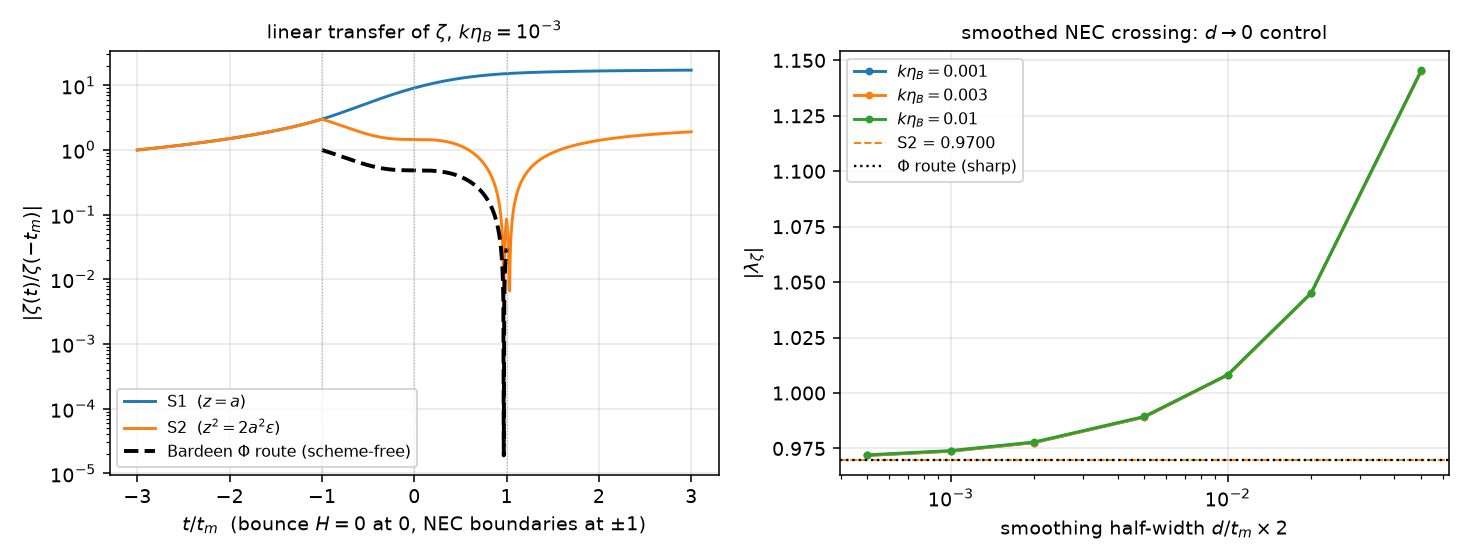
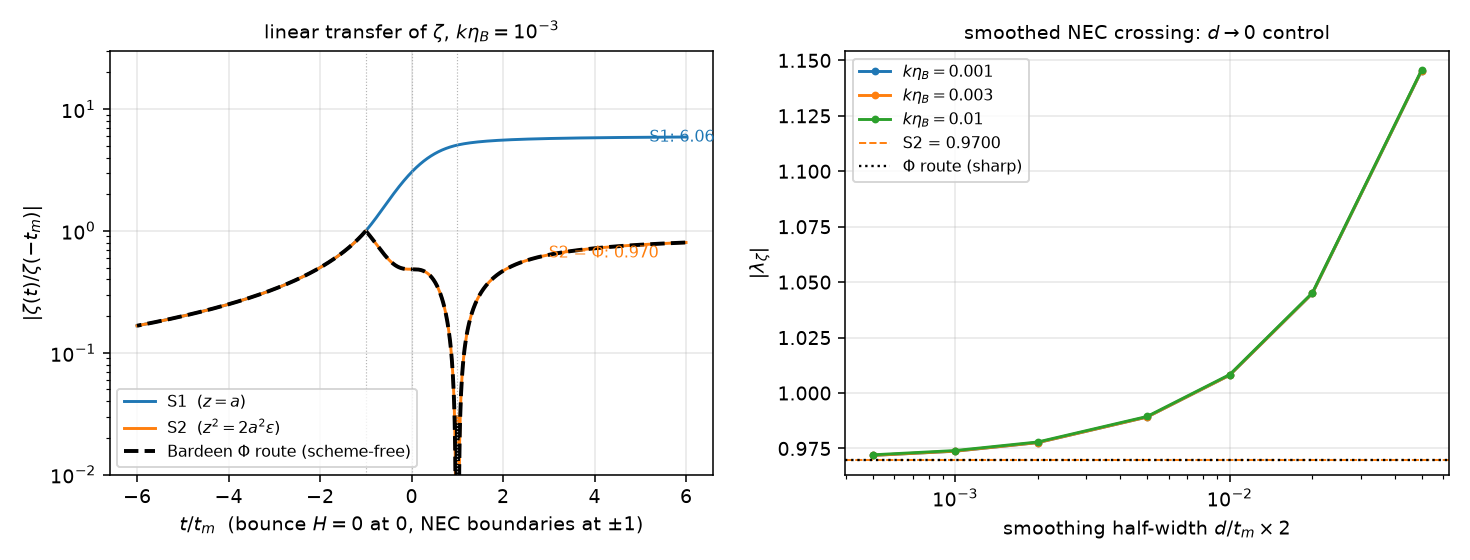
fix(row9): figure -- anchor all three curves at zeta(-t_m) and carry the Phi route through the expansion phase
The first version normalised S1/S2 at t = -6 t_m but the Phi route at -t_m, so
the curves were not comparable and the Phi curve stopped at the exit junction.
Now all three are |zeta(t)/zeta(-t_m)| over the same range: S1, S2 and the
Bardeen route coincide exactly through the whole contraction (eps is constant
there, so z = a is exact -- the symbolic condition made visible), the Phi curve
then lies on top of S2 through the bounce and out to 0.970, and S1 separates at
the NEC boundary and climbs to 6.06. Numbers unchanged.

diff --git a/research/cubic_bounce_transmission/row9_scheme_independence_2026_09_19/row9_numeric.py b/research/cubic_bounce_transmission/row9_scheme_independence_2026_09_19/row9_numeric.py
@@ -305,25 +305,31 @@ def main():
         import matplotlib.pyplot as plt
         fig, ax = plt.subplots(1, 2, figsize=(10.5, 4.0))
         keta = KS[0]; k = keta / ETA_B
-        ts = np.linspace(-3 * TM, 3 * TM, 1200)
-        for nm, sc in (("S1  ($z=a$)", "S1"), ("S2  ($z^2=2a^2\\epsilon$)", "S2")):
+        ts = np.concatenate([np.linspace(-6 * TM, -TM, 300), np.linspace(-TM, TM, 500)[1:-1],
+                             np.linspace(TM, 6 * TM, 300)])
+        for nm, sc, col in (("S1  ($z=a$)", "S1", "C0"), ("S2  ($z^2=2a^2\\epsilon$)", "S2", "C1")):
             bm = BounceModes(Q, k, sc)
-            zz = []
-            for t in ts:
-                zz.append(bm.window(t)[0] if abs(t) <= TM else (bm.early(t)[0] if t < 0 else bm.late(t)[0]))
-            zz = np.abs(np.array(zz, dtype=complex)); ax[0].plot(ts / TM, zz / zz[0], label=nm)
+            zz = np.array([complex(bm.window(t)[0]) if abs(t) <= TM else
+                           complex(bm.early(t)[0] if t < 0 else bm.late(t)[0]) for t in ts])
+            ax[0].plot(ts / TM, np.abs(zz / complex(bm.window(-TM)[0])), col, label=nm)
         Phi0, Xi0, z0 = matter_ic(k, -TM)
-        tw = np.linspace(-TM, TM, 400)
-        r, i = evolve(rhs_sharp, -TM, TM, [Phi0, Xi0], (k,), teval=tw)
-        aa = np.array([Sharp.a(t) for t in tw]); HH = np.array([Sharp.H(t) for t in tw])
-        zb = np.abs(zeta_of(aa, HH, r.y[1] + 1j * i.y[1], r.y[0] + 1j * i.y[0]))
-        ax[0].plot(tw / TM, zb / abs(z0), "k--", lw=2, label="Bardeen $\\Phi$ route (scheme-free)")
+        segs = []
+        for (ta, tb, y0) in [(-TM, -6 * TM, [Phi0, Xi0]), (-TM, 6 * TM, [Phi0, Xi0])]:
+            tt = np.linspace(ta, tb, 700)
+            r, i2 = evolve(rhs_sharp, ta, tb, y0, (k,), teval=tt)
+            aa = np.array([Sharp.a(t) for t in tt]); HH = np.array([Sharp.H(t) for t in tt])
+            Hd = np.where(np.abs(tt) <= TM, UPS, -1.5 * HH ** 2)
+            segs.append((tt, np.abs(zeta_of(aa, HH, r.y[1] + 1j * i2.y[1], r.y[0] + 1j * i2.y[0]) / z0)))
+        for n, (tt, zb) in enumerate(segs):
+            ax[0].plot(tt / TM, zb, "k--", lw=2, label=("Bardeen $\\Phi$ route (scheme-free)" if n == 0 else None))
         ax[0].axvline(0, color="0.7", lw=0.6, ls=":"); ax[0].axvline(-1, color="0.7", lw=0.6, ls=":")
         ax[0].axvline(1, color="0.7", lw=0.6, ls=":")
+        ax[0].annotate("S1: 6.06", (5.2, 5.4), fontsize=8, color="C0")
+        ax[0].annotate("S2 = $\\Phi$: 0.970", (3.0, 0.60), fontsize=8, color="C1")
         ax[0].set_xlabel("$t/t_m$  (bounce $H=0$ at 0, NEC boundaries at $\\pm1$)")
-        ax[0].set_ylabel("$|\\zeta(t)/\\zeta(-t_m)|$"); ax[0].set_yscale("log")
+        ax[0].set_ylabel("$|\\zeta(t)/\\zeta(-t_m)|$"); ax[0].set_yscale("log"); ax[0].set_ylim(1e-2, 3e1)
         ax[0].set_title("linear transfer of $\\zeta$, $k\\eta_B=10^{-3}$", fontsize=10)
-        ax[0].legend(fontsize=8); ax[0].grid(alpha=0.3)
+        ax[0].legend(fontsize=8, loc="lower left"); ax[0].grid(alpha=0.3)
         for keta in KS:
             row = smooth[keta]
             ds = sorted({float(kk.split("|")[0]) for kk in row})
